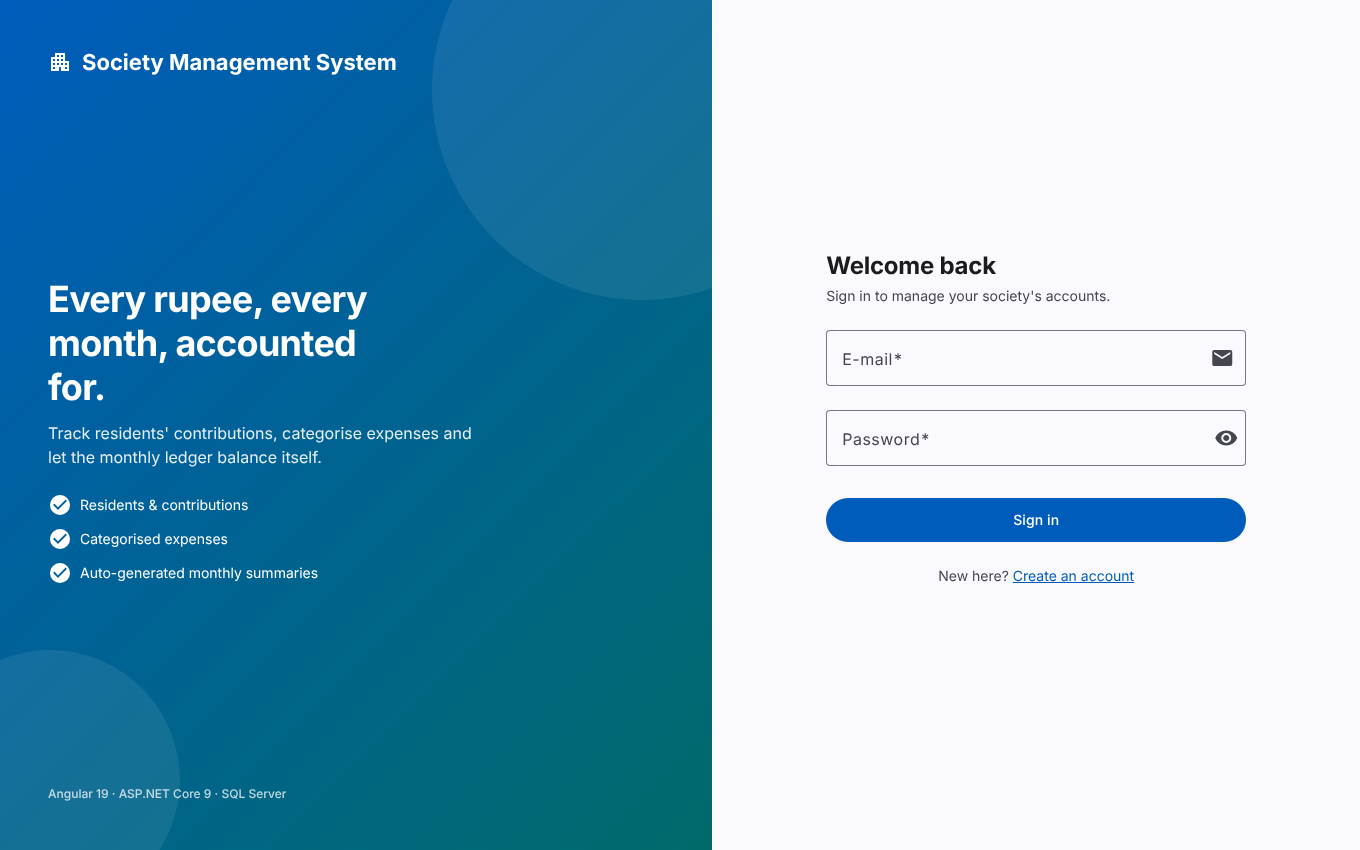
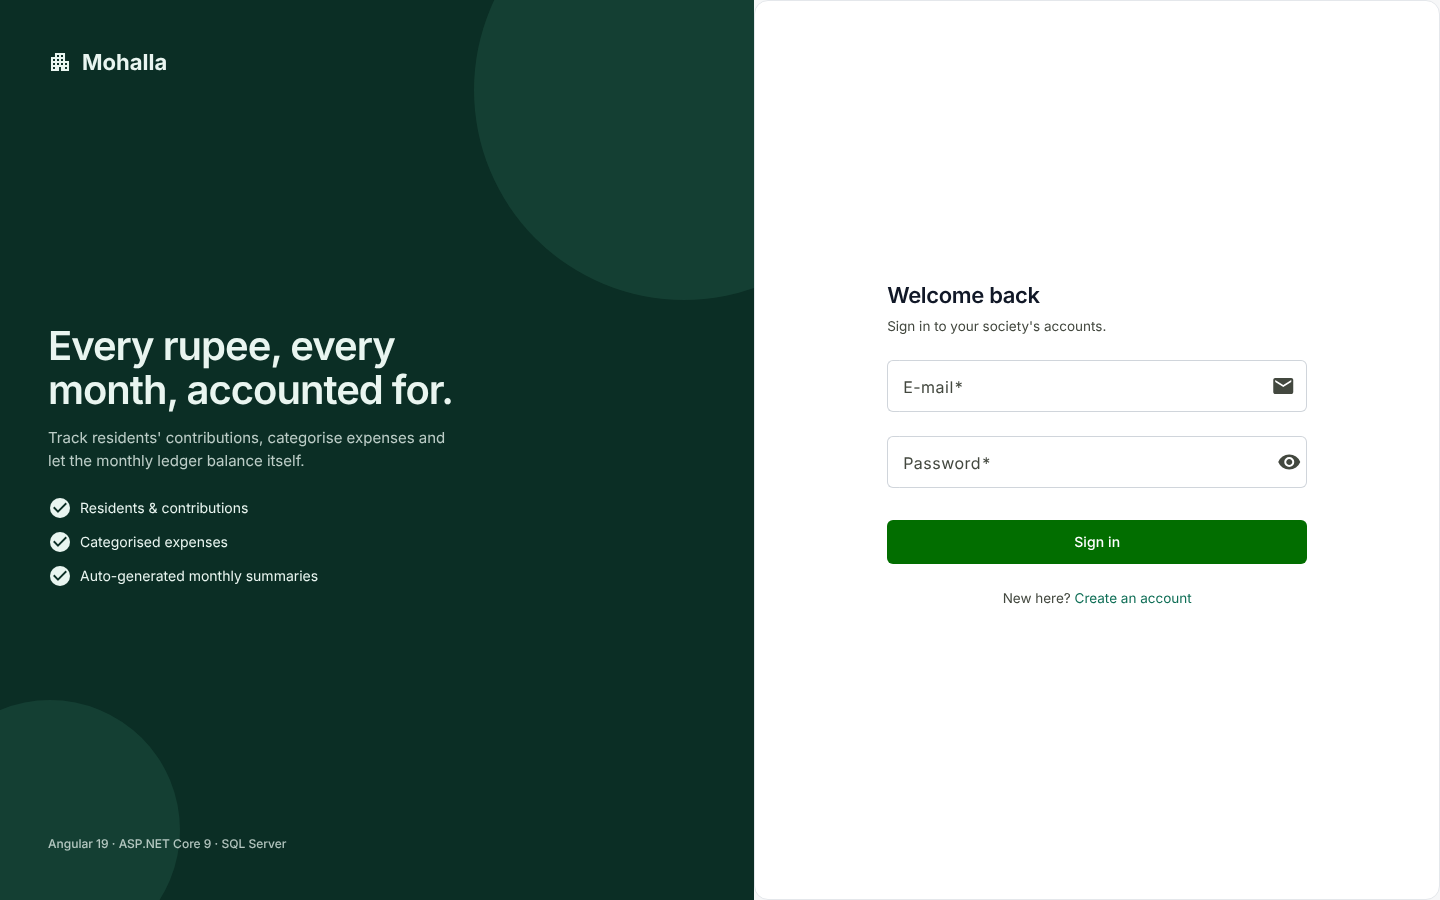
README: cover image, animated tour and screenshot gallery
Claude-Session: https://claude.ai/code/session_01JqkC5cwcFMZ9kEKPSYY6hM

diff --git a/README.md b/README.md
@@ -9,16 +9,34 @@
 **Mohalla** (Urdu: *neighbourhood*) keeps a housing society's books: residents, monthly contributions, categorised expenses and an auto-balancing monthly ledger. This is the Angular client; the ASP.NET Core 9 API lives in **[gn-4200/SocietyManagmentSystem](https://github.com/gn-4200/SocietyManagmentSystem)**.
 
 <p align="center">
-  <img src="docs/screenshots/02-dashboard.png" alt="Dashboard — KPIs, 12-month collected vs. spent chart, recent activity" width="100%">
+  <img src="docs/screenshots/cover.png" alt="Mohalla — dashboard in light mode and a resident statement in dark mode" width="100%">
 </p>
 
-| Contributions | Monthly ledger |
-|---|---|
-| ![Contributions table with filters and paid/outstanding status](docs/screenshots/04-funds.png) | ![Ledger with trend chart and net column](docs/screenshots/06-ledger.png) |
+<p align="center">
+  <img src="docs/screenshots/tour.gif" alt="30-second tour: sign in, dashboard, resident statement, record a payment, ledger, dark mode" width="100%">
+</p>
 
-| Sign in | Dark mode | Mobile |
-|---|---|---|
-| ![Sign in](docs/screenshots/01-login.png) | ![Dashboard, dark theme](docs/screenshots/08-dashboard-dark.png) | <img src="docs/screenshots/09-mobile.png" alt="Dashboard on a phone" width="220"> |
+<details>
+<summary><strong>More screens</strong> — statement, contributions, expenses, users, mobile</summary>
+<br>
+
+| Resident statement | Contributions |
+|---|---|
+| ![Resident statement with running balance](docs/screenshots/03-statement.png) | ![Contributions with filters and shortfall status](docs/screenshots/04-contributions.png) |
+
+| Record a payment | Expenses |
+|---|---|
+| ![Record payment dialog with live outstanding amount](docs/screenshots/05-record-payment.png) | ![Expenses by category](docs/screenshots/06-expenses.png) |
+
+| Monthly ledger (dark) | Users & roles |
+|---|---|
+| ![Ledger with trend chart](docs/screenshots/07-ledger-dark.png) | ![Users page with inline role change](docs/screenshots/09-users.png) |
+
+| Sign in | Mobile |
+|---|---|
+| ![Sign in](docs/screenshots/01-login.png) | <img src="docs/screenshots/10-mobile.png" alt="Dashboard on a phone" width="260"> |
+
+</details>
 
 ## Features
 
